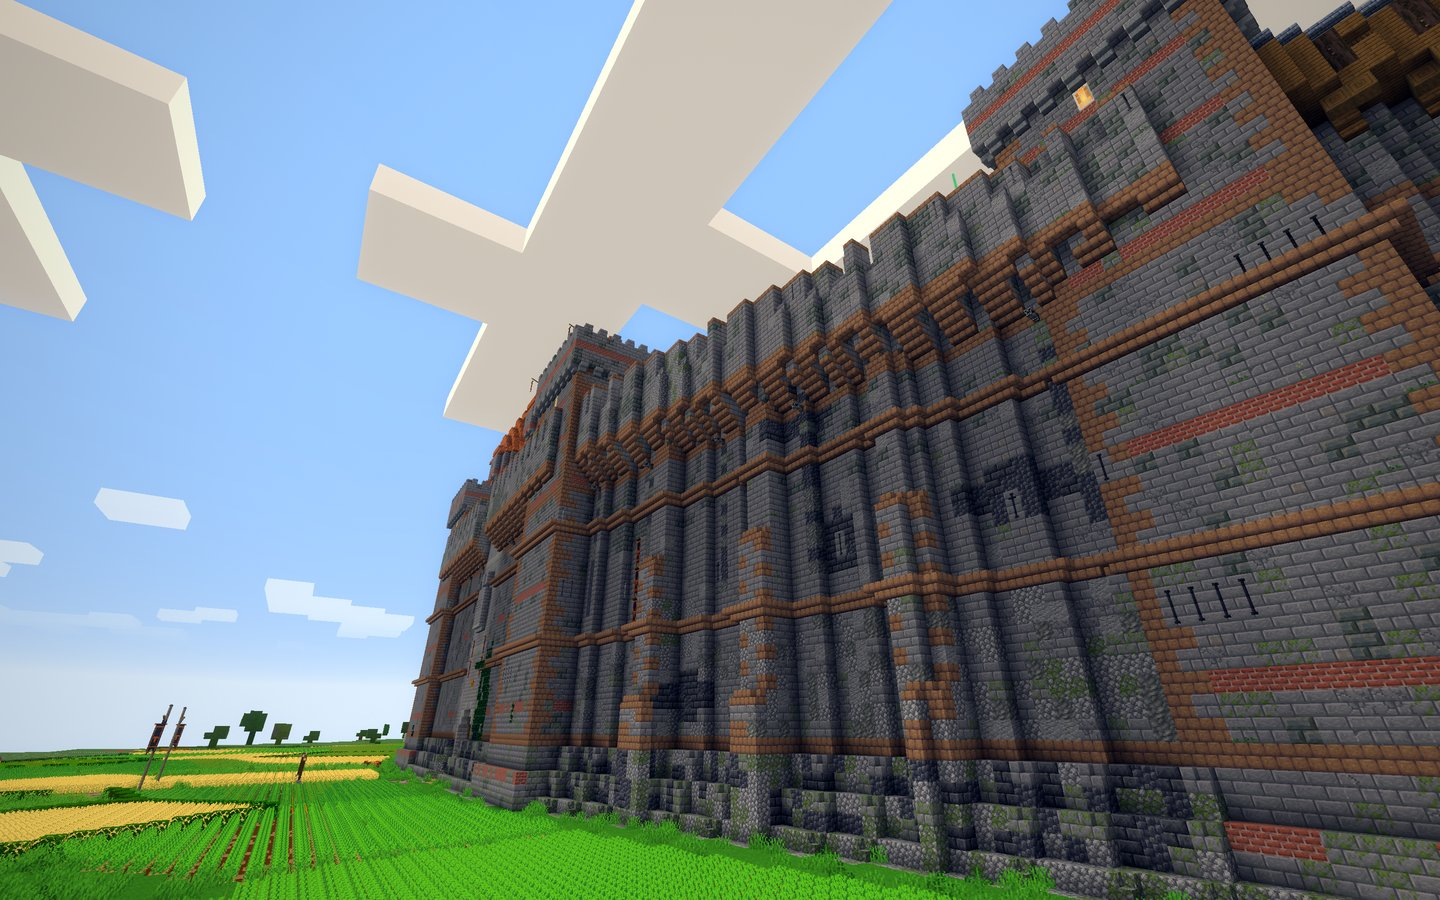
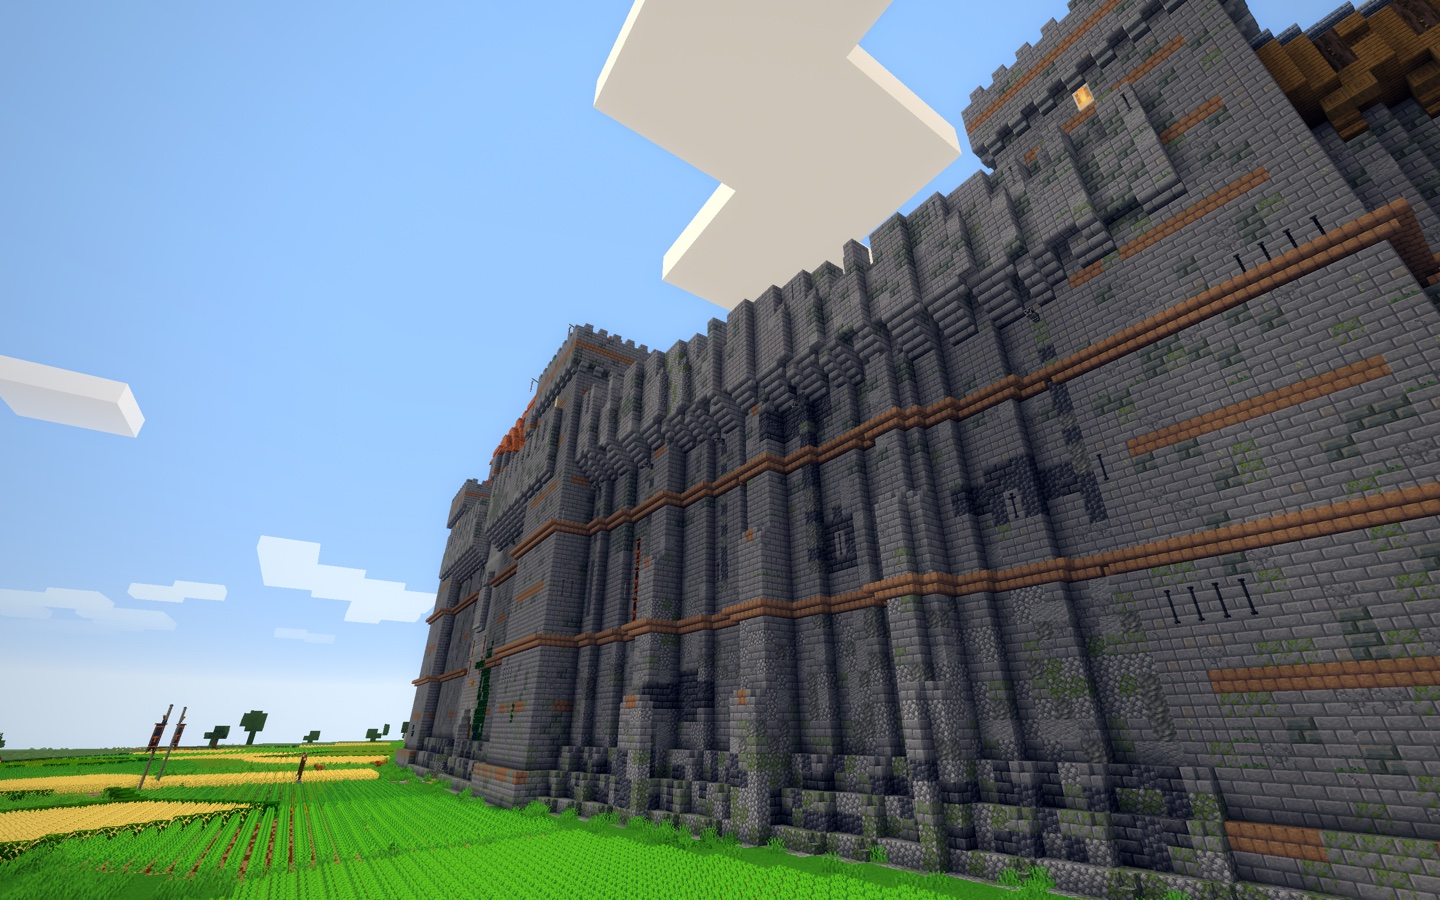
Carillon M4 Walls: the Works' face calm, a plain dressing (only the two string courses in mud brick, whole bands; caps, corbels and merlon caps in stone, no quoins, no bands at 6 and 32); the Works' towers in whole mud bands every six rows; a two-shot tour and walls_works_far

diff --git a/src/main/java/dev/awaken/city/CityWall.java b/src/main/java/dev/awaken/city/CityWall.java
@@ -383,19 +383,21 @@ final class CityWall {
 
     /**
      * The dressed stone of a stretch (courses, quoins, caps, corbels and bands): a warm sandstone against the grey, the
-     * Terrace's pale diorite, the Works' brick.
+     * Terrace's pale diorite, the Works' brick. A plain dressing (the Works) dresses only the two string courses, as whole
+     * bands with their lips: its caps, corbels and merlon caps are stone, it has no quoins and no bands at 6 and 32 (on the
+     * slanted sides every dressed cap and corbel traced the raster's steps).
      */
-    record Dress(BlockState full, BlockState quoin, BlockState slab, Stairs course, Stairs cap) {}
+    record Dress(BlockState full, BlockState quoin, BlockState slab, Stairs course, Stairs cap, Stairs corbel, boolean plain) {}
 
     static final Dress SAND = new Dress(of("minecraft:smooth_sandstone"), of("minecraft:cut_sandstone"),
             of("minecraft:smooth_sandstone_slab[type=bottom]"), Stairs.of("minecraft:smooth_sandstone_stairs", "top"),
-            Stairs.of("minecraft:smooth_sandstone_stairs", "bottom"));
+            Stairs.of("minecraft:smooth_sandstone_stairs", "bottom"), Stairs.of("minecraft:smooth_sandstone_stairs", "top"), false);
     static final Dress PALE = new Dress(of("minecraft:polished_diorite"), of("minecraft:calcite"),
             of("minecraft:polished_diorite_slab[type=bottom]"), Stairs.of("minecraft:polished_diorite_stairs", "top"),
-            Stairs.of("minecraft:polished_diorite_stairs", "bottom"));
-    /** The Works' dressing: muted mud brick, tile courses rather than red lines (red traced the raster's steps). */
-    static final Dress BRICK = new Dress(of("minecraft:mud_bricks"), of("minecraft:mud_bricks"), of("minecraft:mud_brick_slab[type=bottom]"),
-            Stairs.of("minecraft:mud_brick_stairs", "top"), Stairs.of("minecraft:mud_brick_stairs", "bottom"));
+            Stairs.of("minecraft:polished_diorite_stairs", "bottom"), Stairs.of("minecraft:polished_diorite_stairs", "top"), false);
+    /** The Works' dressing: plain, two whole bands of muted mud brick at the courses and the rest in stone. */
+    static final Dress BRICK = new Dress(of("minecraft:mud_bricks"), null, of("minecraft:stone_brick_slab[type=bottom]"),
+            Stairs.of("minecraft:mud_brick_stairs", "top"), CAP, Stairs.of("minecraft:stone_brick_stairs", "top"), true);
 
     static Dress dress(int district) {
         return switch (district) {
@@ -442,7 +444,7 @@ final class CityWall {
      */
     static BlockState stone(Ctx c, Geo g, int x, int ry, int z, boolean inner) {
         Dress dr = dress(g);
-        if (ry == 6 || ry == 32 || !inner && (ry == 15 || ry == 27) || inner && ry == 9) return dr.full();
+        if ((ry == 6 || ry == 32) && !dr.plain() || !inner && (ry == 15 || ry == 27) || inner && ry == 9) return dr.full();
         int h = c.pct(x, z, 400 + ry);
         int pt = patch(g, ry, inner);
         int dist = BEHIND[g.k];
@@ -797,7 +799,7 @@ final class CityWall {
                 if (ry == to) {
                     BlockState cap = shaped(c, dr.cap(), dr.full(), x, ry, z);
                     b.set(x, ry, z, cap != null ? cap : dr.cap().straight()[in]);
-                } else if ((m == 0 && ry % 2 == 0 || m == 2 && ry % 2 == 1) && ry <= 21 && l == (ry <= 9 ? 3 : 2))
+                } else if (dr.quoin() != null && (m == 0 && ry % 2 == 0 || m == 2 && ry % 2 == 1) && ry <= 21 && l == (ry <= 9 ? 3 : 2))
                     b.set(x, ry, z, dr.quoin()); // quoins on the lower stages' front corners; the upper stage plain
                 else b.set(x, ry, z, stone(c, g, x, ry, z, false));
             }
@@ -878,10 +880,10 @@ final class CityWall {
         if (l == 1 && butt) {
             for (int ry = 34; ry <= 38; ry++) b.set(x, ry, z, stone(c, g, x, ry, z, false)); // the buttress runs up into it
         } else {
-            if (corb) b.set(x, tier, z, dr.course().straight()[in]);
+            if (corb) b.set(x, tier, z, dr.corbel().straight()[in]);
             for (int ry = tier + 1; ry <= 38; ry++) {
                 boolean solid = corb || l == 3 && ry >= 36;
-                b.set(x, ry, z, !solid ? AIR : l == 3 && ry == 36 ? dr.full() : stone(c, g, x, ry, z, false));
+                b.set(x, ry, z, !solid ? AIR : l == 3 && ry == 36 && !dr.plain() ? dr.full() : stone(c, g, x, ry, z, false));
             }
         }
         if (l == 1 && !corb && !butt && Math.floorMod(g.u, 9) == 5) b.set(x, 32, z, st("awaken:wall_spout[facing=" + DIR[g.out()] + "]"));

diff --git a/src/main/java/dev/awaken/city/CityTowers.java b/src/main/java/dev/awaken/city/CityTowers.java
@@ -150,13 +150,15 @@ final class CityTowers {
 
     static BlockState masonry(Ctx c, T t, int x, int ry, int z) {
         int h = c.pct(x, z, 900 + ry);
-        if (ry == 6 || ry == 15 || ry == 27 || ry == 32) return CityWall.dress(t.district).full(); // the wall's dressed bands run round
+        CityWall.Dress dr = CityWall.dress(t.district);
+        if (ry == 15 || ry == 27 || (ry == 6 || ry == 32) && !dr.plain()) return dr.full(); // the wall's dressed bands run round
         int moss = (ry < 4 ? 40 : ry < 12 ? 18 : 6) * (t.district == GARDEN_D || t.district == QUAY_D ? 3 : 2) / 2;
         if (h < moss) return MOSSY_STONE_BRICKS;
         int h2 = c.pct(x, z, 960 + ry);
         return switch (t.district) {
             case BELLWATCH -> h2 < 40 ? STONE_BRICKS : h2 < 60 ? COBBLE : h2 < 75 ? TUFF_BRICKS : h2 < 88 ? ASHLAR : CRACKED_STONE_BRICKS;
-            case WORKS -> ry % 6 == 3 ? BRICKS : h2 < 55 ? STONE_BRICKS : h2 < 75 ? ASHLAR : h2 < 88 ? TUFF_BRICKS : CRACKED_STONE_BRICKS;
+            // the Works: whole bands every six rows, the wall's two among them
+            case WORKS -> ry % 6 == 3 ? dr.full() : h2 < 55 ? STONE_BRICKS : h2 < 75 ? ASHLAR : h2 < 88 ? TUFF_BRICKS : CRACKED_STONE_BRICKS;
             case TERRACE -> h2 < 55 ? ASHLAR : h2 < 90 ? STONE_BRICKS : CRACKED_STONE_BRICKS;
             default -> h2 < 50 ? STONE_BRICKS : h2 < 80 ? ASHLAR : h2 < 92 ? CRACKED_STONE_BRICKS : ANDESITE;
         };
@@ -325,7 +327,7 @@ final class CityTowers {
             boolean lower = ry == 12 || ry == 20 || ry == 28 || ry == t.eave - 13;
             return loop(face, lower ? 1 : 2, storey == 3 ? 1 : 0, stone);
         }
-        if (t.form == SQUARE && quoin(t, x, z, ry) && ry > 6) return t.district == TERRACE ? POLISHED_DIORITE : t.district == WORKS ? MUD_BRICKS : ASHLAR;
+        if (t.form == SQUARE && quoin(t, x, z, ry) && ry > 6) return t.district == TERRACE ? POLISHED_DIORITE : ASHLAR;
         return s;
     }
 
@@ -475,7 +477,7 @@ final class CityTowers {
         if (!shell) {
             if (ringCell(t, x, z, 1.0)) {
                 b.set(x, e - 4, z, Math.floorMod(x + z, 2) == 0 ? CityWall.CORBEL_ANDESITE.straight()[towardAxis(t, x, z)] : AIR);
-                for (int ry = e - 3; ry <= e + 1; ry++) b.set(x, ry, z, ry % 6 == 3 ? BRICKS : masonry(c, t, x, ry, z));
+                for (int ry = e - 3; ry <= e + 1; ry++) b.set(x, ry, z, masonry(c, t, x, ry, z));
                 if (Math.floorMod(x + z, 2) == 0) b.set(x, e + 2, z, masonry(c, t, x, e + 2, z));
             }
             return;

diff --git a/src/main/java/dev/awaken/city/CityViews.java b/src/main/java/dev/awaken/city/CityViews.java
@@ -35,7 +35,7 @@ final class CityViews {
     /** Views taken exactly where they say (indoors, underground): never moved onto open ground. */
     static final java.util.Set<String> EXACT = java.util.Set.of("cellar", "quay_ladder", "walls_out_w", "walls_out_nw", "walls_out_e",
             "walls_out_s", "walls_inner", "walls_inner_high", "walls_walk", "walls_walk_roofed", "walls_climb", "walls_tower",
-            "walls_passage", "walls_watergate", "walls_scaffold", "walls_approach");
+            "walls_passage", "walls_watergate", "walls_scaffold", "walls_approach", "walls_works_far");
 
     static {
         // the sky, at dawn in the tour: over the north-west half, across the spire
@@ -102,6 +102,7 @@ final class CityViews {
         add("walls_out_nw", -293.3, 10, -64.1, -232.1, 30, -72.5);
         add("walls_out_e", 236.4, 8, 166.5, 213.4, 26, 116.3);
         add("walls_out_s", 97.6, 6, 263.7, 57.1, 30, 236.2);
+        add("walls_works_far", 165.0, 14, 300.0, 78.0, 22, 222.0); // the Works' slanted sides from the fields
         add("walls_inner", 225.8, 1.0, 43.9, 223.9, 14, 68.3);
         add("walls_inner_high", -50.1, 20, 210.1, -66.6, 20, 225.4);
         add("walls_walk", 181.7, 40.0, 154.8, 161.2, 41, 175.3);

diff --git a/docs/carillon/milestones/M4-walls.md b/docs/carillon/milestones/M4-walls.md
@@ -116,6 +116,13 @@ No block entities, no loot.
   higher on the inner face, the north faces and the Garden and Quay stretches, and it grows thick at the foot.
 - Shots (tour 7, Vulkan): `walls_out_s`, `walls_gate_yard`, `walls_watergate`.
 
+## Fifth pass (the Works' face, calm)
+- **A plain dressing for the Works.** Only the two string courses (15 and 27) are mud brick, as whole bands with their
+  lips. The buttress caps, corbels and merlon caps are stone, there are no quoins, and there are no bands at 6, 32 or the
+  breastwork. The Works' towers carry whole mud bands every six rows, the wall's two among them, and plain ashlar quoins.
+  The red brick is kept for the watch room on top.
+- Shots (`carillon-m4walls-works.txt`, a two-shot tour): `walls_out_s`, `walls_works_far` (a new view from the fields).
+
 ## Tests (GameTests, one per mechanism; `-Ptests=city_wall_`)
 - `city_wall_grid`: every hold on the wall's faces below the walk sits in an odd row (9,841 holds), the outer courses
   (896 cells) and the inner (529) are whole along every clear stretch, and 23 of 24 sides have a climb line from the
@@ -145,9 +152,6 @@ Three light tours of `tools/autopilot/carillon-m4walls.txt` (B3a's world, seed a
 ## Where it still falls short
 - Close under the inner face of a slanted side, the panels' heads, the corbel table and the band step with the raster and
   read heavy.
-- On the Works' slanted sides the mud brick still traces the buttresses' stepping and the corbel steps. It is calmer than
-  red, but it still reads as lines. The next step would be to dress only the two string courses there and leave the
-  caps and corbels in stone.
 - The ivy's "dark" tone reads blue-black at a distance. Close up, its clumps keep rectangular edges where a patch ends at
   a course.
 
